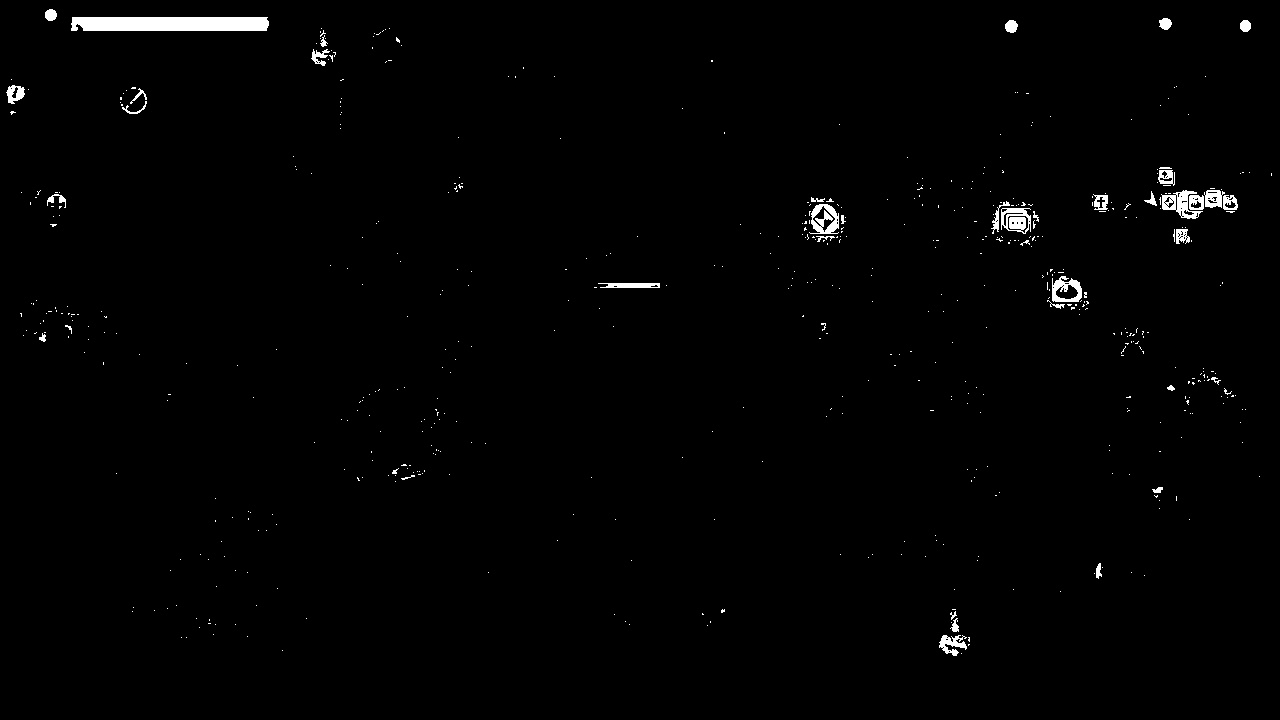
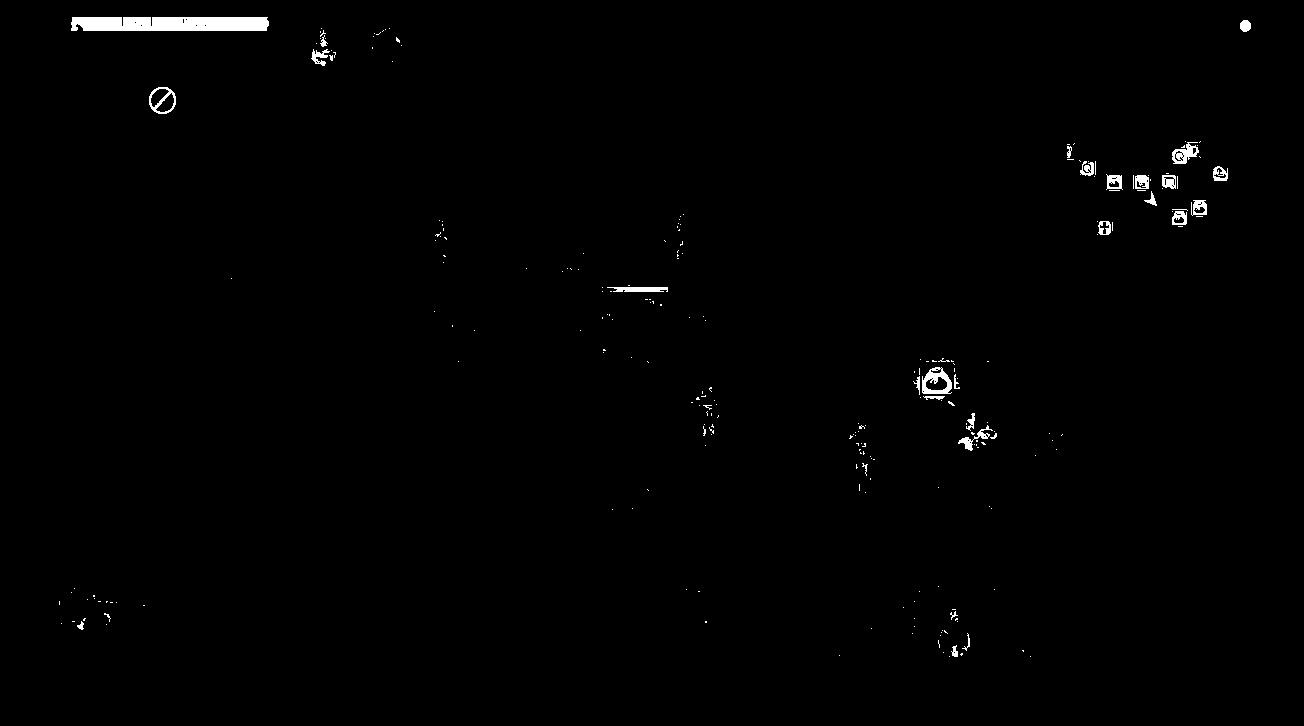
image detection worked

diff --git a/Control/LineageM.py b/Control/LineageM.py
@@ -32,6 +32,26 @@ class LM:
         Point = Sample_hash - source_hash
 
         return Point
+    def Image_CMP_new(self,temp_img,threshold,Emu_Index):
+        img_src = self.ADB.getWindow_Img_new(Emu_Index)
+        #cv2.imwrite('src1.jpg',img_src)
+        im1 = cv2.cvtColor(img_src, cv2.COLOR_BGRA2BGR)
+        #cv2.imwrite('src2.jpg',img_src)
+        template = cv2.imread(temp_img)
+        #print(template.shape)
+        
+        res = cv2.matchTemplate(im1, template, cv2.TM_CCOEFF_NORMED)
+        min_val, max_val, min_loc, max_loc = cv2.minMaxLoc(res)
+        cv2.imwrite('img_cmp.jpg',img_src)
+        cv2.imwrite('temp.jpg',template)
+        print(max_val)
+        
+        if max_val > threshold:
+            return max_loc
+        else:
+            print('Not found')
+            return 0
+
 
     def HP_Detect_Above_80(self,source_img):
         # Lineage M HP : Top-Left = [74,17], Bot-Right = [264,29]
@@ -57,7 +77,7 @@ class LM:
             return 0
 
 
-    def HP_Detect_Above_80_new(self):
+    def HP_Detect_Above_80_new(self,Emu_Index):
         # Lineage M HP : Top-Left = [74,17], Bot-Right = [264,29]
         # length = 190, width = 12
         # 90% = 74 + 190 * 0.9 => [245,23]
@@ -67,14 +87,15 @@ class LM:
         # 50% => [169, 23]
         # 40% => [150, 23]
         
-        im_HSV = self.ADB.getWindow_Img_new(Emu_Index=0)
+        src_img = self.ADB.getWindow_Img_new(Emu_Index)
+        im_HSV = cv2.cvtColor(src_img, cv2.COLOR_BGR2HSV)
         
         # Red Mask
         lower_red = np.array([0,43,150]) 
         upper_red = np.array([10,255,255])
         red_mask = cv2.inRange(im_HSV, lower_red, upper_red)
         # test if HP is correctly filtered
-        #res_img = cv2.imwrite('res.jpg',mask)
+        res_img = cv2.imwrite('res.jpg',red_mask)
 
         
         # Green Mask
@@ -177,6 +198,13 @@ class LM:
             return 0
         else:
             return 1
+    
+    def Check_Orange_Potion(self,Emu_Index):
+        org_loc = self.Image_CMP_new(temp_img = 'orange_potion_low.jpg', threshold = 0.99, Emu_Index =0)
+        if org_loc[0] in range(921,987):
+            print('Low')
+        else:
+            print('Good')
 
     def Check_And_Take_Sign_MailBox(self):
 
@@ -237,41 +265,18 @@ class LM:
 
 
 if __name__ == '__main__':
-    obj = LM(Device_Name="127.0.0.1:5557",Sample_Path="./Data/Sample_img")
+    obj = LM(Device_Name="emulator-5554",Sample_Path="./Data/Sample_img")
+    #obj.Image_CMP_new('orange_potion_low.jpg',0.9,0)
+    #obj.Check_Orange_Potion(0)
+    print(obj.HP_Detect_Above_80_new(0))
 
     ### HP_Detection_Test:
     #if obj.HP_Detect_Above_80('test.png'):
         #print('HP above 80%')
     #else:
         #print('HP below 80%')
-    ### HP_Detection_Field_Test:
-    while 1:
-        try:
-            result = obj.HP_Detect_Above_80_new()
-        
-            if result == 1:
-                print("Poisoned")
-                obj.Click_System_Btn('F2')
+    
 
-            elif result == 0:
-                print("HP below 80%")
-                obj.Click_System_Btn('F5')
-            
-            else:
-                print("Good!")
-        
-            time.sleep(0.5)
-        except:
-            pass
-
-    #while 1:
-    #    Has_stat =   obj.Check_Red_Water_Exist()
-    #    if Has_stat == 1:
-    #        print("有藥水")
-    #    else:
-    #        print("沒藥水")
-    #        obj.Click_System_Btn("F8")
-    #    time.sleep(1)
 
     # obj.Click_System_Btn("Menu_Sign_in")
     # rs = obj.Check_And_Take_Sign_MailBox()

diff --git a/Control/adb.py b/Control/adb.py
@@ -72,57 +72,9 @@ class ADB:
     def getWindow_W_H(self,hwnd):
     # 取得目標視窗的大小
         left, top, right, bot = win32gui.GetWindowRect(hwnd)
-        width = right - left #+ 280
-        height = bot - top #+ 150
+        width = right - left + 280
+        height = bot - top + 150
         return (left, top, width, height)
-    
-    def getWindow_Img(self,hwnd,filename):
-    # 將 hwnd 換成 WindowLong
-        s = win32gui.GetWindowLong(hwnd,win32con.GWL_EXSTYLE)
-        win32gui.SetWindowLong(hwnd, win32con.GWL_EXSTYLE, s|win32con.WS_EX_LAYERED)
-    # 判斷視窗是否最小化
-        show = win32gui.IsIconic(hwnd)
-    # 將視窗圖層屬性改變成透明    
-    # 還原視窗並拉到最前方
-    # 取消最大小化動畫
-    # 取得視窗寬高
-        if show == 1: 
-            win32gui.SystemParametersInfo(win32con.SPI_SETANIMATION, 0)
-            win32gui.SetLayeredWindowAttributes(hwnd, 0, 0, win32con.LWA_ALPHA)
-            win32gui.ShowWindow(hwnd, win32con.SW_RESTORE)    
-            x, y, width, height = self.getWindow_W_H(hwnd)        
-    # 創造輸出圖層
-        hwindc = win32gui.GetWindowDC(hwnd)
-        srcdc = win32ui.CreateDCFromHandle(hwindc)
-        memdc = srcdc.CreateCompatibleDC()
-        bmp = win32ui.CreateBitmap()
-    # 取得視窗寬高
-        x, y, width, height = self.getWindow_W_H(hwnd)
-    # 如果視窗最小化，則移到Z軸最下方
-        if show == 1: win32gui.SetWindowPos(hwnd, win32con.HWND_BOTTOM, x, y, width, height, win32con.SWP_NOACTIVATE)
-    # 複製目標圖層，貼上到 bmp
-        bmp.CreateCompatibleBitmap(srcdc, width, height)
-        memdc.SelectObject(bmp)
-        memdc.BitBlt((0 , 0), (width, height), srcdc, (8, 3), win32con.SRCCOPY)
-    # 將 bitmap 轉換成 np
-        signedIntsArray = bmp.GetBitmapBits(True)
-        img = np.fromstring(signedIntsArray, dtype='uint8')
-        img.shape = (height, width, 4) #png，具有透明度的
-    
-    # 釋放device content
-        srcdc.DeleteDC()
-        memdc.DeleteDC()
-        win32gui.ReleaseDC(hwnd, hwindc)
-        win32gui.DeleteObject(bmp.GetHandle())
-    # 還原目標屬性
-        if show == 1 :
-            win32gui.SetLayeredWindowAttributes(hwnd, 0, 255, win32con.LWA_ALPHA)
-            win32gui.SystemParametersInfo(win32con.SPI_SETANIMATION, 1)
-    # 回傳圖片
-        #return img
-        src_img = cv2.cvtColor(img, cv2.COLOR_BGRA2RGB)
-        src_img = cv2.imwrite(filename,img)
-        self.ScreenHot = src_img
 
     def getWindow_Img_new(self,Emu_Index):
         self.Hwnd = int(self.Get_Self_Hawd(Emu_Index))
@@ -169,8 +121,8 @@ class ADB:
             win32gui.SetLayeredWindowAttributes(self.Hwnd, 0, 255, win32con.LWA_ALPHA)
             win32gui.SystemParametersInfo(win32con.SPI_SETANIMATION, 1)
     # 回傳圖片
-        #return img
-        src_img = cv2.cvtColor(img, cv2.COLOR_BGR2HSV)
+        src_img = img
+        #src_img = cv2.cvtColor(img, cv2.COLOR_BGR2HSV)
         #src_img = cv2.imwrite(filename,img)
         self.ScreenHot = src_img
         return src_img

diff --git a/Template_Matching_test.py b/Template_Matching_test.py
@@ -2,12 +2,13 @@ import cv2
 import numpy as np
 from matplotlib import pyplot as plt
 
-img = cv2.imread('red_potion_lower.jpg')
+img = cv2.imread('red_potion_lower.jpg')[598:664, 921:987]
 #img = cv2.imread('test.jpg')
-img.astype(np.uint8)
+#img.astype(np.uint8)
 img2 = img.copy()
-template1 = cv2.cv2.imread('red_water_10.jpg')
-template2 = cv2.cv2.imread('orange_potion_low.jpg')
+template1 = cv2.imread('red_water_10.jpg')
+template2 = cv2.imread('orange_potion_low.jpg')
+print(template2)
 #template2.astype(np.uint8)
 #cv2.imwrite('res1.png',template)
 
@@ -16,8 +17,8 @@ h, w = template2.shape[0], template2.shape[1]
 res_red = cv2.matchTemplate(img, template1, cv2.TM_CCOEFF_NORMED)
 res_orange = cv2.matchTemplate(img, template2, cv2.TM_CCOEFF_NORMED)
 
-min_val, max_val, min_loc, max_loc = cv2.minMaxLoc(res_red)
-#min_val, max_val, min_loc, max_loc = cv2.minMaxLoc(res_orange)
+#min_val, max_val, min_loc, max_loc = cv2.minMaxLoc(res_red)
+min_val, max_val, min_loc, max_loc = cv2.minMaxLoc(res_orange)
 
 top_left = max_loc
 print(top_left)
